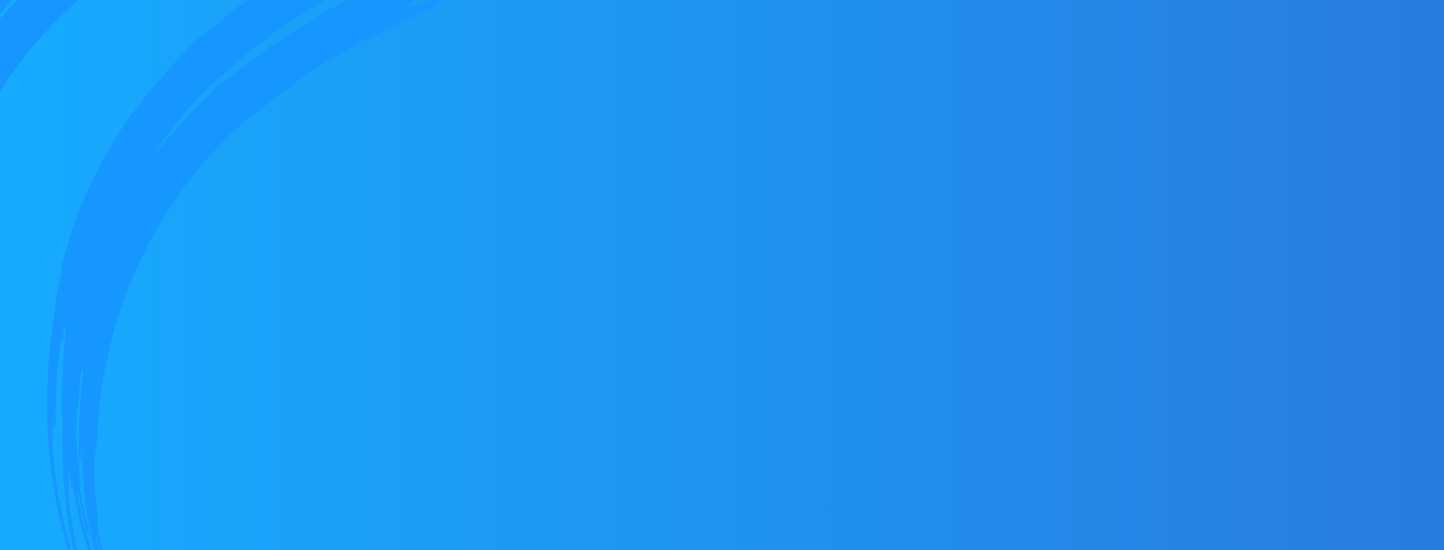
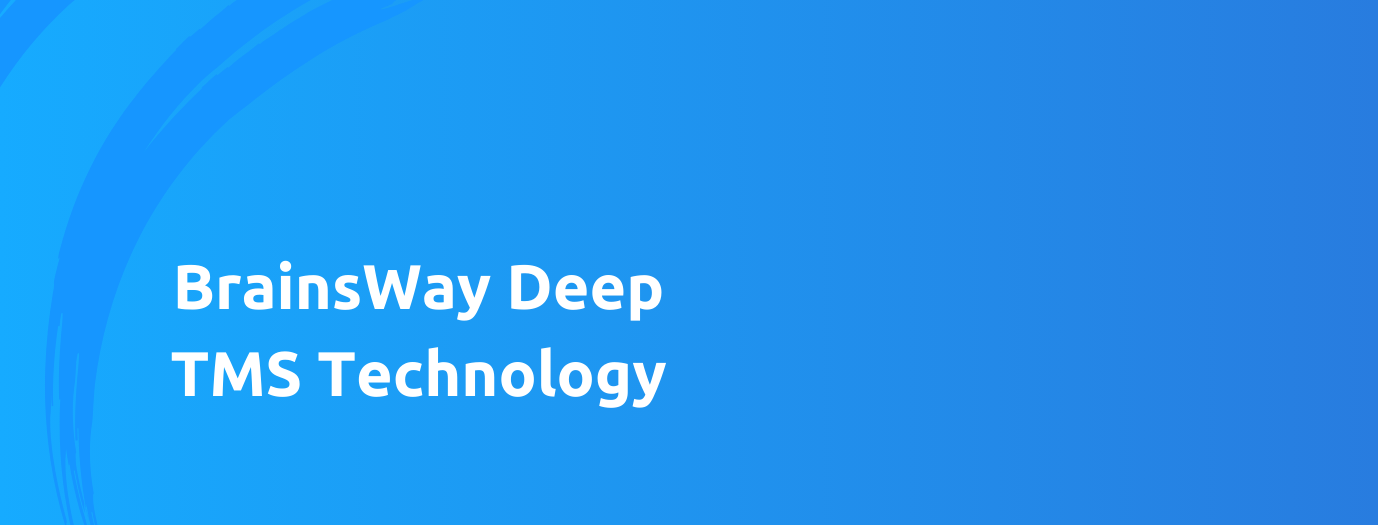
Treatment Page

Changed region(s): [[0.1248, 0.4876, 0.4993, 0.6095], [0.1248, 0.6705, 0.4993, 0.7924]]

diff --git a/src/Treatments.jsx b/src/Treatments.jsx
@@ -1,17 +1,18 @@
 import React from 'react';
 import BlueComponent from './BigBlue';
 import SecondSection from './SecondSectionTreatment';
-import './Treatments.css'
+import './Treatments.css';
 import Bottom from './bottom';
-const Treatments = () => {
+import containerImage from './images/BrainswayExplanation.png'; // Import your container image
 
+const Treatments = () => {
   const stylePicture = {
     title: {
-      fontSize: '60px', 
-      color: 'white', 
-      textAlign: 'left', 
+      fontSize: '60px',
+      color: 'white',
+      textAlign: 'left',
       paddingTop: '30%',
-      paddingRight: '50%', 
+      paddingRight: '50%',
       fontFamily: 'Ubuntu, sans-serif', // Apply the Ubuntu font
       fontWeight: 700, // Ensure bold font weight
       fontStyle: 'normal', // Ensure normal font style
@@ -19,11 +20,16 @@ const Treatments = () => {
     container: {
       width: "100%",
       height: '1800px',
-      
+      overflow: 'hidden', // Ensure the image doesn't overflow the container
+      position: 'relative', // Position the container relative to its parent
     },
     image: {
-      width: '100%',
-      height: '100%',
+      position: 'absolute', // Position the image absolutely within the container
+      top: '50%', // Position the image 50% from the top of the container
+      left: '50%', // Position the image 50% from the left of the container
+      transform: 'translate(-105%, -130%) scale(0.8)', // Center the image horizontally and vertically, and scale it to 50%
+      maxWidth: '100%', // Ensure the image doesn't exceed the container width
+      maxHeight: '100%', // Ensure the image doesn't exceed the container height
     },
     button: {
       position: 'absolute',
@@ -38,18 +44,16 @@ const Treatments = () => {
       cursor: 'pointer',
       fontSize: '16px',
     },
+    
   };
 
   return (
     <div className="special-background">
-      
       <BlueComponent />
       <div style={stylePicture.container}>
-        <h1 style={stylePicture.title}>
-          BrainsWay Deep TMS Technology
-        </h1>
+        <img src={containerImage} alt="Container" style={stylePicture.image} />
       </div>
-      <SecondSection/> {/*This second section is the white part */}
+      <SecondSection /> {/* This second section is the white part */}
       <Bottom></Bottom>
     </div>
   );

diff --git a/src/BigBlue.jsx b/src/BigBlue.jsx
@@ -1,21 +1,37 @@
-import React from 'react';
-import bigBlueImage from './images/bigblue.png'; // Import the image
+// BlueComponent.js
 
+import React from 'react';
+import bigBlueImage from './images/bigblue.png'; // Import the bigBlue image
+import overlayImage from './images/Brainsway.webp'; // Import the overlay image
+import explanation from './images/BrainswayExplanation.png';
 const BlueComponent = () => {
   return (
     <div
       style={{
-        backgroundImage: `url(${bigBlueImage})`, // Use the imported image
-        backgroundSize: 'cover', // Cover the entire area of the div with the background image
+        position: 'relative', // Set the position to relative
         height: '80%', // Height of the component
-        borderRadius: '0 0 20% 20%', // Rounding off bottom edges
-        position: 'absolute', // Positioning it at the top of the screen
+        borderRadius: '0 0 100px 100px', // Rounding off bottom corners by 100 pixels
         width: '100%', // Full width
         top: 0, // Positioned at the top of the screen
         left: 0, // Aligned to the left
-        zIndex: -1 // Behind other content
+        zIndex: 0 // Behind other content
       }}
-    ></div>
+    >
+      <img src={bigBlueImage} alt="bigBlue" style={{ width: '100%', height: '100%', objectFit: 'cover', borderRadius: '0 0 100px 100px' }} />
+      <div
+        style={{
+          position: 'absolute', // Positioning the overlay absolutely
+          top: '5%', // Align the overlay to the middle vertically
+          left: '35%', // Align the overlay to the left
+          width: '70%', // Full width
+          height: 'auto', // Half of the height
+          zIndex: 1, // Above the background image
+          borderRadius: '0 0 100px 100px', // Rounding off bottom corners by 100 pixels
+        }}
+      >
+        <img src={overlayImage} alt="Overlay Image" style={{ width: '100%', height: '100%', objectFit: 'cover', borderRadius: '0 0 100px 100px' }} />
+      </div>
+    </div>
   );
 };
 

diff --git a/src/SecondSectionTreatment.jsx b/src/SecondSectionTreatment.jsx
@@ -1,3 +1,5 @@
+// SecondSection.js
+
 import React from 'react';
 
 const SecondSection = () => {
@@ -6,25 +8,23 @@ const SecondSection = () => {
             backgroundColor: '#F9F9F9', // Background color for the second section
             width: '100%',
             minHeight: '450px', // Set the minimum height of the second section
+            position: 'relative', // Ensure relative positioning
+            zIndex: 0 // Behind other content
         },
-        dropdown: {
-            maxHeight: '200px',
-            width: '20%',
-            margin: '0 auto', // Center the dropdown horizontally
-            overflowY: 'auto',
-            border: '1px solid #ccc',
-            borderRadius: '4px',
-            padding: '5px',
-        },
-        item: {
-            padding: '5px',
-            cursor: 'pointer',
-        },
+        overlay: {
+            position: 'absolute', // Positioning the overlay absolutely
+            top: '50%', // Align the overlay to the middle vertically
+            left: 0, // Align the overlay to the left
+            width: '100%', // Full width
+            height: '50%', // Half of the height
+            backgroundColor: 'rgba(255, 255, 255, 0.5)', // Semi-transparent white background color
+            zIndex: 1 // Above the background color
+        }
     };
 
     return (
         <div style={styles.container}>
-        
+            <div style={styles.overlay}></div>
         </div>
     );
 };

diff --git a/src/Treatments.css b/src/Treatments.css
@@ -1,5 +1,5 @@
 .special-background {
-  background-color: #bbb9b9d9;
+  background-color: #F9F9F9;
   top: 0;
   left: 0;
   width: 100%;
